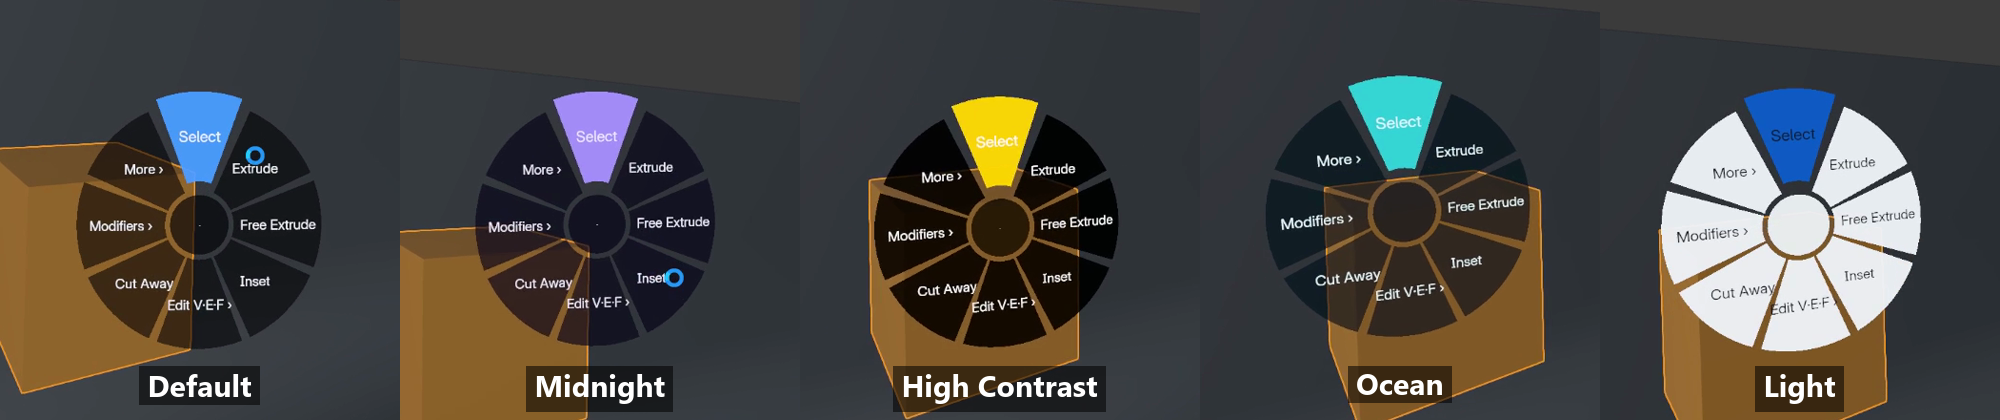
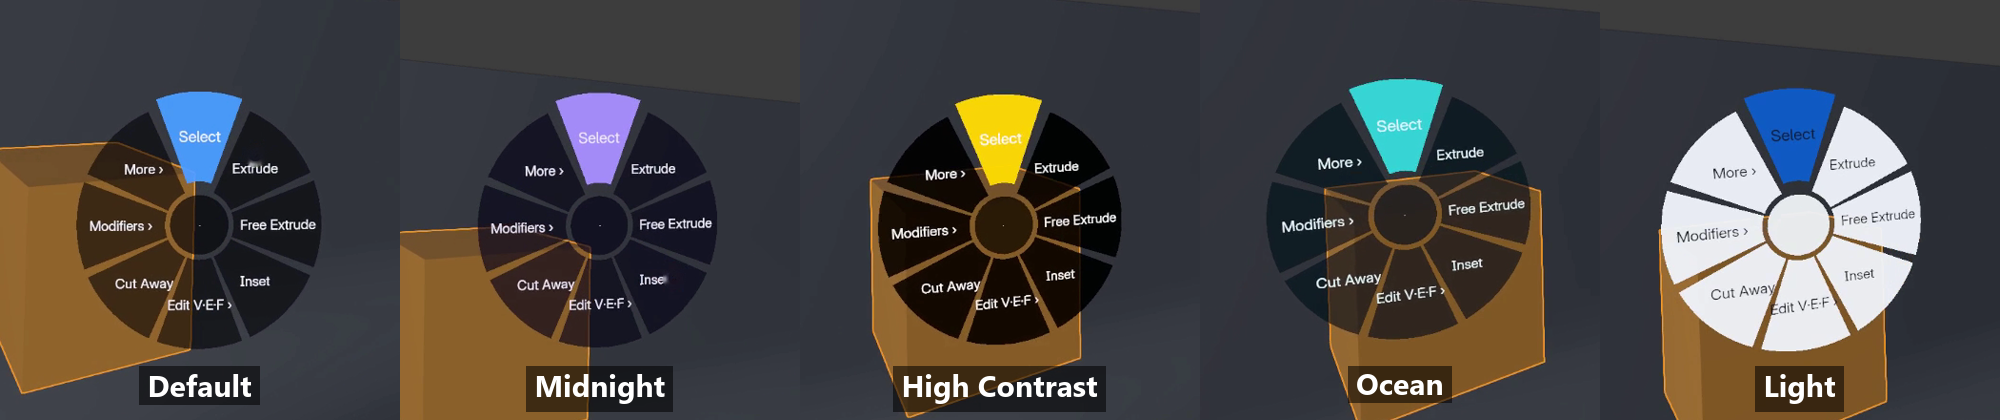
README: clean stills instead of GIFs
The GIFs showed a stray cursor ring, GIF compression smears and the simulator's
lens edge, and GitHub drew play/expand icons over each one. Replace them with
ring-free 5:4 stills in an even grid, a VR + desktop hero, and a full-width theme strip.

diff --git a/README.md b/README.md
@@ -1,5 +1,5 @@
 <p align="center">
-  <img src="docs/media/hero-vr-to-desktop.gif" alt="A Boolean cut made in VR, then the same mesh and its undo history in desktop Blender" width="100%">
+  <img src="docs/media/hero-vr-to-desktop.png" alt="A Boolean cut made in VR, then the same mesh and its undo history in desktop Blender" width="100%">
 </p>
 
 # VRBlender
@@ -25,7 +25,7 @@ VRBlender is free and open source (GPL). It is a patch to Blender plus an
 add-on, and it runs in its own profile, so your normal Blender settings and add-ons
 are left alone.
 
-> The animations on this page were recorded in a desktop OpenXR simulator with
+> The pictures on this page were captured in a desktop OpenXR simulator with
 > scripted input, so no hands or controllers are visible. See
 > [Hardware status](#hardware-status) for what has been checked on a real headset.
 
@@ -53,7 +53,7 @@ Windows may warn that the launcher comes from an unknown publisher; the files ar
 code-signed. The launcher is a short PowerShell script in the `launcher` folder, and
 you are welcome to read it first. Logs go to `profile\logs`.
 
-Already build Blender yourself? `VRBlender-0.19.0-addon.zip` is the add-on alone
+Already built Blender yourself? `VRBlender-0.19.0-addon.zip` is the add-on alone
 (Edit > Preferences > Get Extensions > Install from Disk). It needs a Blender built
 with the VRBlender patch, see [Build from source](#build-from-source-windows), and it
 will tell you so if the patch is missing.
@@ -62,34 +62,39 @@ will tell you so if the patch is missing.
 
 <table>
 <tr>
-<td width="50%"><img src="docs/media/live-boolean.gif" alt="Live Boolean cutter cutting a hole through a box"><br>
+<td width="50%"><img src="docs/media/live-boolean.png" alt="Live Boolean cutter cutting a hole through a box"><br>
 <b>Live Booleans.</b> Draw a cutter and watch it cut, join or keep the overlap while you
 move it. It stays a real Boolean modifier until you apply it.</td>
-<td width="50%"><img src="docs/media/undo-ring.gif" alt="Undo Ring showing named undo steps around the hand"><br>
+<td width="50%"><img src="docs/media/undo-ring.png" alt="Undo Ring showing named undo steps around the hand"><br>
 <b>Undo Ring.</b> Blender's own undo history around your hand, every step by name.
 Scrub back and forward with the stick; each notch is a real undo or redo.</td>
 </tr>
 <tr>
-<td><img src="docs/media/modifier-tower.gif" alt="Modifier stack shown as stacked blocks"><br>
+<td><img src="docs/media/modifier-tower.png" alt="Modifier stack shown as stacked blocks"><br>
 <b>Modifier Tower.</b> The modifier stack as blocks you can hold. Move a block up or down
 to reorder, trigger it to switch it on or off, push the stick to dial its main value.</td>
-<td><img src="docs/media/node-garden-geometry-nodes.gif" alt="Geometry Nodes tree as blocks with links being made"><br>
+<td><img src="docs/media/node-garden-geometry-nodes.png" alt="Geometry Nodes tree as blocks with links being made"><br>
 <b>Node Garden.</b> A material or Geometry Nodes tree as blocks standing in front of you.
 Drag from socket to socket to link, and the object updates live. The node editor stays in step.</td>
 </tr>
 <tr>
-<td><img src="docs/media/sdf-blobs.gif" alt="Clay-like blobs melting together"><br>
+<td><img src="docs/media/sdf-blobs.png" alt="Clay-like blobs melting together"><br>
 <b>SDF blobs.</b> Draw trails of clay that melt together, carve them away smoothly, then
 bake the result to a mesh. The ring at the pen tip is exactly the size you get.</td>
-<td><img src="docs/media/uv-island-by-parts.gif" alt="A mug being unwrapped one part at a time"><br>
+<td><img src="docs/media/uv-island-by-parts.png" alt="A mug being unwrapped one part at a time"><br>
 <b>UVs by parts.</b> Point at a face and a UV island floods out to a crease angle you
 choose. Let go and just that part is unwrapped, with its border as seams.</td>
 </tr>
 <tr>
-<td><img src="docs/media/tool-wheel.gif" alt="Tool wheel opening around the hand"><br>
+<td><img src="docs/media/draw-shapes.png" alt="A box drawn by hand in the air"><br>
+<b>Draw shapes.</b> Draw boxes, spheres and cylinders by hand at the size you want, or
+place one with a ghost preview. Letting go commits it as one undo step.</td>
+<td><img src="docs/media/tool-wheel.png" alt="Tool wheel around the hand with Free Extrude highlighted"><br>
 <b>Tool wheel.</b> Click the right stick, move your hand a few centimetres toward a tool
 (you feel a tick for each one) and click again.</td>
-<td><img src="docs/media/themes-grid.png" alt="The five VR colour themes side by side"><br>
+</tr>
+<tr>
+<td colspan="2"><img src="docs/media/themes-grid.png" alt="The five VR colour themes side by side"><br>
 <b>Five themes.</b> Default, Midnight, High Contrast, Ocean and Light, switched live from
 Settings &gt; Feel. Plate labels are chosen to stay readable over dark and bright scenes.</td>
 </tr>
